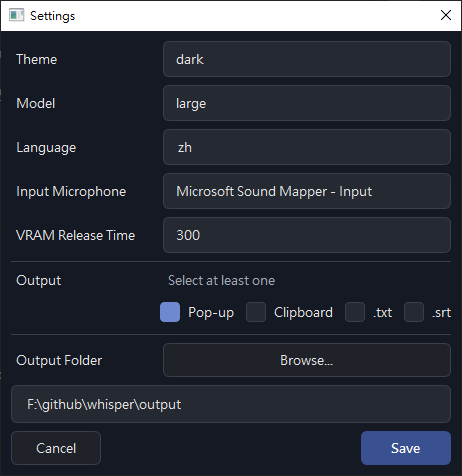
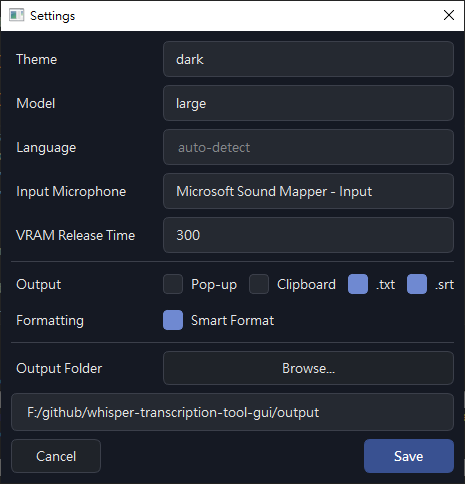
Add `Smart Format` function for output

diff --git a/dialogs.py b/dialogs.py
@@ -406,33 +406,36 @@ class SettingsDialog(QWidget):
         out_label = QLabel("Output")
         out_label.setFixedWidth(140)
 
-        out_hint = QLabel("Select at least one")
-        out_hint.setObjectName("hintLabel")
-
-        out_title_row.addWidget(out_label)
-        out_title_row.addWidget(out_hint)
-        out_title_row.addStretch(1)
-        layout.addLayout(out_title_row)
-
-        out_row = QHBoxLayout()
-        out_row.setSpacing(12)
-
         self.ck_popup = QCheckBox("Pop-up")
         self.ck_clipboard = QCheckBox("Clipboard")
         self.ck_txt = QCheckBox(".txt")
         self.ck_srt = QCheckBox(".srt")
+        self.ck_smart_format = QCheckBox("Smart Format")
 
         self.ck_popup.setChecked(bool(self.config.get("output_popup", False)))
         self.ck_clipboard.setChecked(bool(self.config.get("output_clipboard", False)))
         self.ck_txt.setChecked(bool(self.config.get("output_txt", True)))
         self.ck_srt.setChecked(bool(self.config.get("output_srt", True)))
+        self.ck_smart_format.setChecked(bool(self.config.get("output_smart_format", True)))
 
-        out_row.addStretch(1)
-        out_row.addWidget(self.ck_popup)
-        out_row.addWidget(self.ck_clipboard)
-        out_row.addWidget(self.ck_txt)
-        out_row.addWidget(self.ck_srt)
-        layout.addLayout(out_row)
+        out_title_row.addWidget(out_label)
+        out_title_row.addWidget(self.ck_popup)
+        out_title_row.addWidget(self.ck_clipboard)
+        out_title_row.addWidget(self.ck_txt)
+        out_title_row.addWidget(self.ck_srt)
+        out_title_row.addStretch(1)
+        layout.addLayout(out_title_row)
+
+        format_row = QHBoxLayout()
+        format_row.setSpacing(12)
+
+        format_label = QLabel("Formatting")
+        format_label.setFixedWidth(140)
+
+        format_row.addWidget(format_label)
+        format_row.addWidget(self.ck_smart_format)
+        format_row.addStretch(1)
+        layout.addLayout(format_row)
 
         # 分隔線
         line2 = QLabel()
@@ -526,6 +529,7 @@ class SettingsDialog(QWidget):
         self.config["output_clipboard"] = bool(self.ck_clipboard.isChecked())
         self.config["output_txt"] = bool(self.ck_txt.isChecked())
         self.config["output_srt"] = bool(self.ck_srt.isChecked())
+        self.config["output_smart_format"] = bool(self.ck_smart_format.isChecked())
 
         if not any([
             self.config["output_popup"],

diff --git a/gui.py b/gui.py
@@ -390,17 +390,18 @@ class MainWindow(QWidget):
 
         raw_text = payload.get("text", "") or ""
         segments = payload.get("segments") or []
-        formatted_text = format_transcript(raw_text, segments)
+        use_smart_format = bool(self.config.get("output_smart_format", True))
+        output_text = format_transcript(raw_text, segments) if use_smart_format else raw_text
 
         # 1) clipboard：直接寫入剪貼簿
         if self.config.get("output_clipboard", False):
-            QApplication.clipboard().setText(raw_text)
+            QApplication.clipboard().setText(output_text)
 
         # 2) pop-up：顯示可選取文字的子視窗
         if self.config.get("output_popup", False):
             dlg = TranscriptPopupDialog(
                 title=f"Transcription - {title_name}",
-                text=formatted_text,
+                text=output_text,
                 theme=self.config.get("theme", "dark"),
                 parent=self,
             )
@@ -412,7 +413,7 @@ class MainWindow(QWidget):
         # 3) 檔案輸出
         saved_paths: list[Path] = []
         if self.config.get("output_txt", True):
-            saved_paths.append(write_txt(self.output_dir, stem, formatted_text))
+            saved_paths.append(write_txt(self.output_dir, stem, output_text))
         if self.config.get("output_srt", True):
             saved_paths.append(write_srt(self.output_dir, stem, segments))
 

diff --git a/app_config.py b/app_config.py
@@ -25,6 +25,7 @@ DEFAULT_CONFIG = {
     "output_clipboard": False,   # 直接複製到剪貼簿
     "output_txt": True,          # 輸出 .txt
     "output_srt": True,          # 輸出 .srt
+    "output_smart_format": True, # 智慧格式（換行/補標點）
 }
 
 
